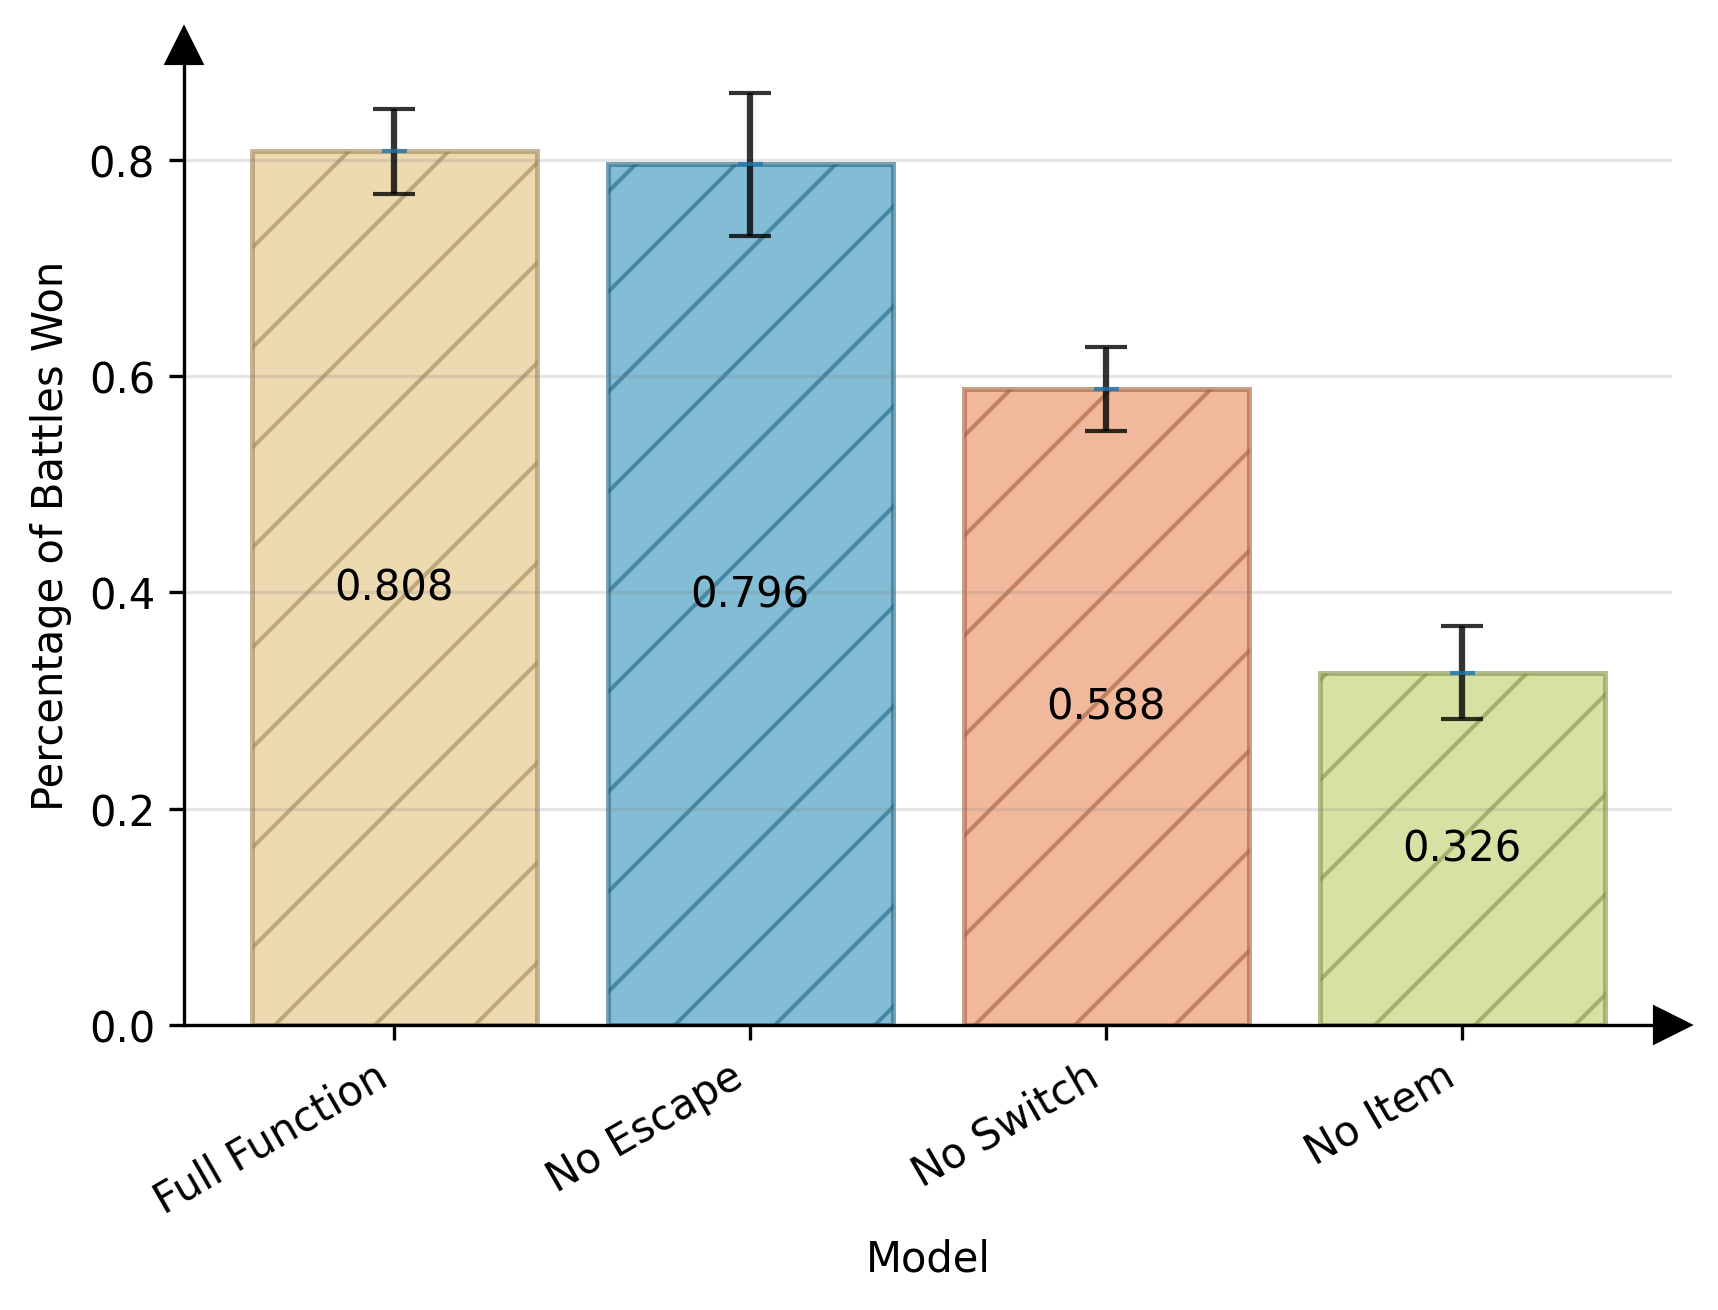
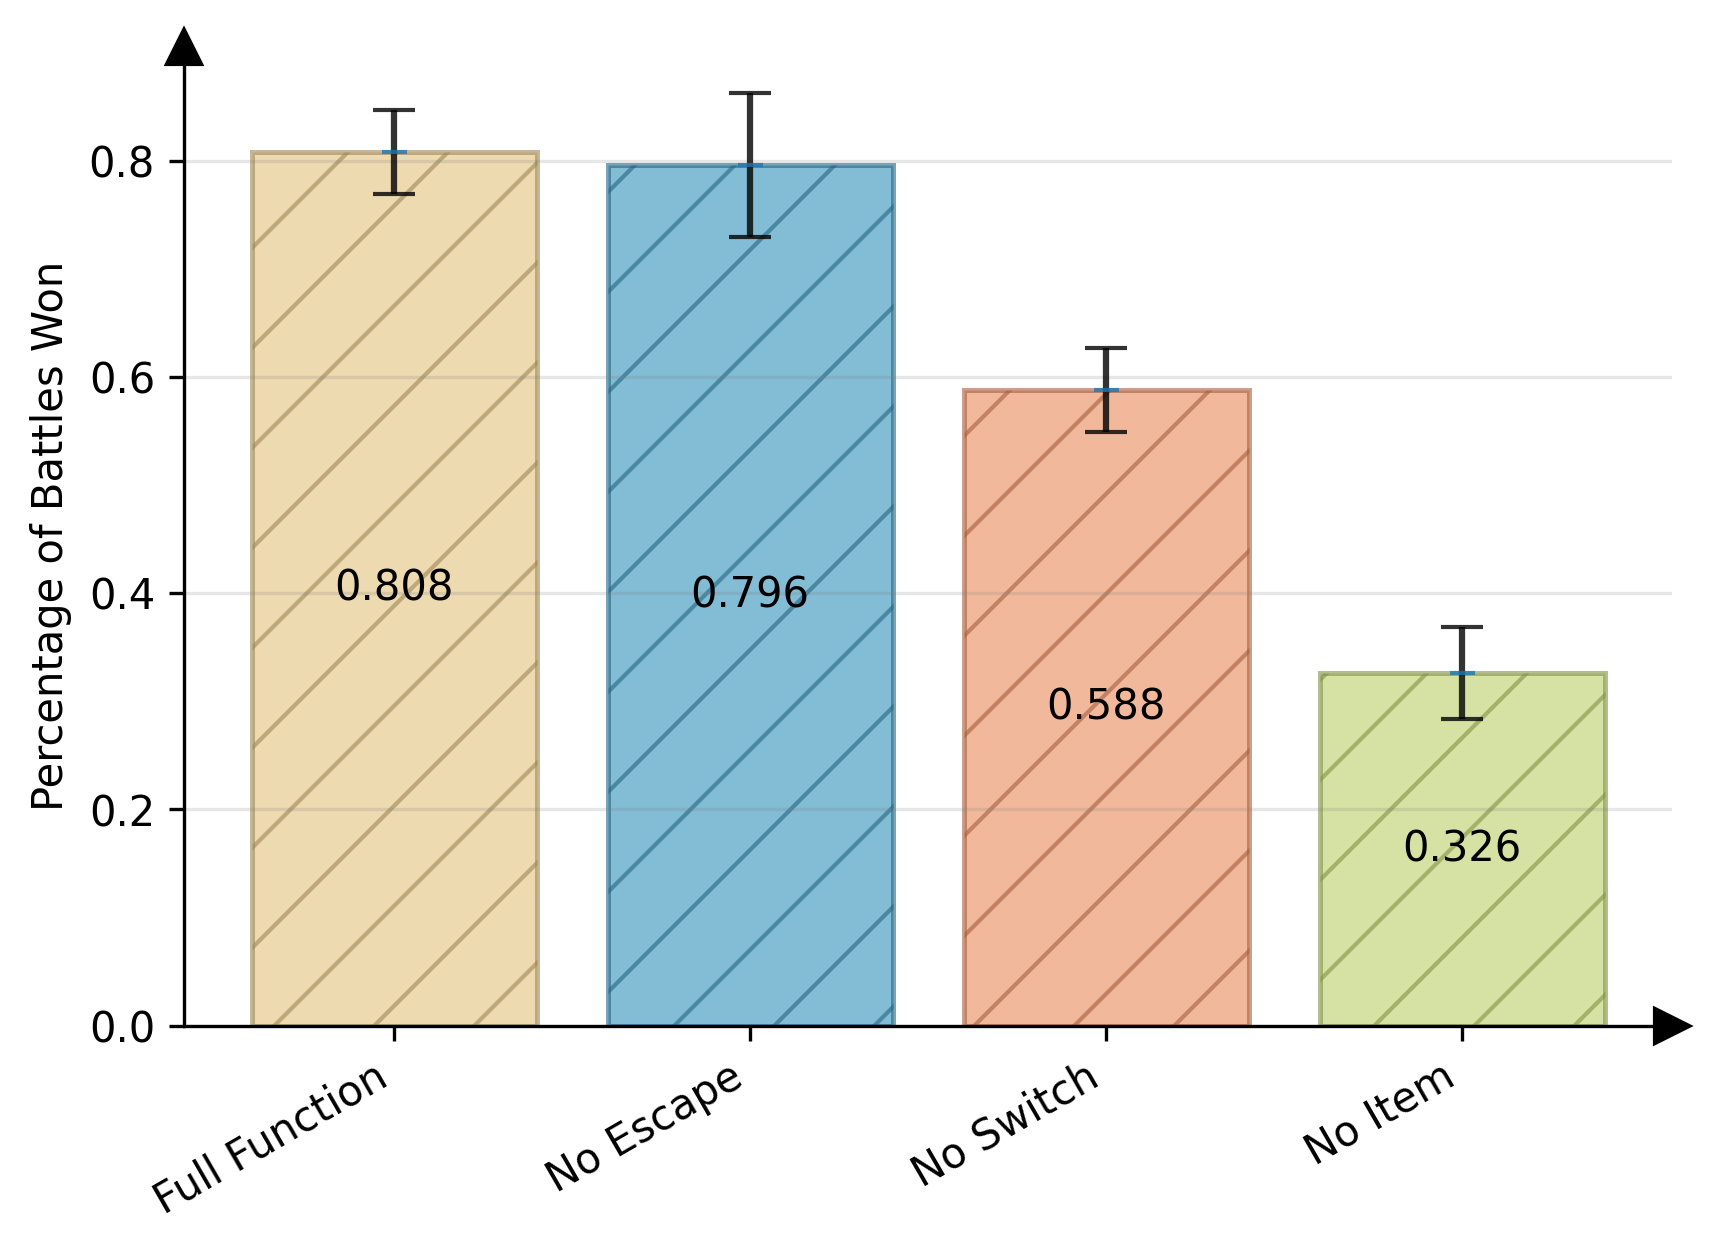
[fix]

diff --git a/data_analyze/function_analyze.py b/data_analyze/function_analyze.py
@@ -55,7 +55,7 @@ def get_mean_and_se(model_battle_list):
 def mean_bar_plot(fig, ax, mean_list, se_list, topics_list, color_list):
 
     round_mean_list = np.round(mean_list, decimals=3)
-    ax.set_xlabel("Model")
+    # ax.set_xlabel("Model")
     ax.set_ylabel("Percentage of Battles Won")
     ax.errorbar(topics_list, round_mean_list, color='#1f77b4', alpha=0.8,
                 yerr=se_list, fmt="_", ecolor='black', capsize=5)
